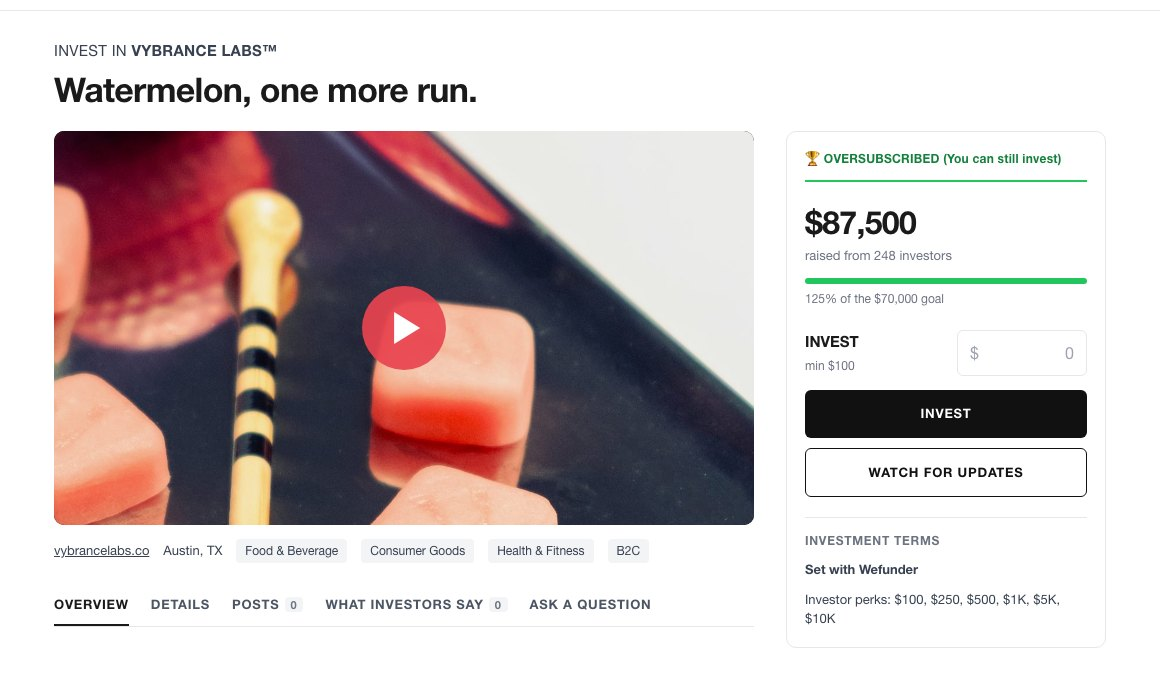
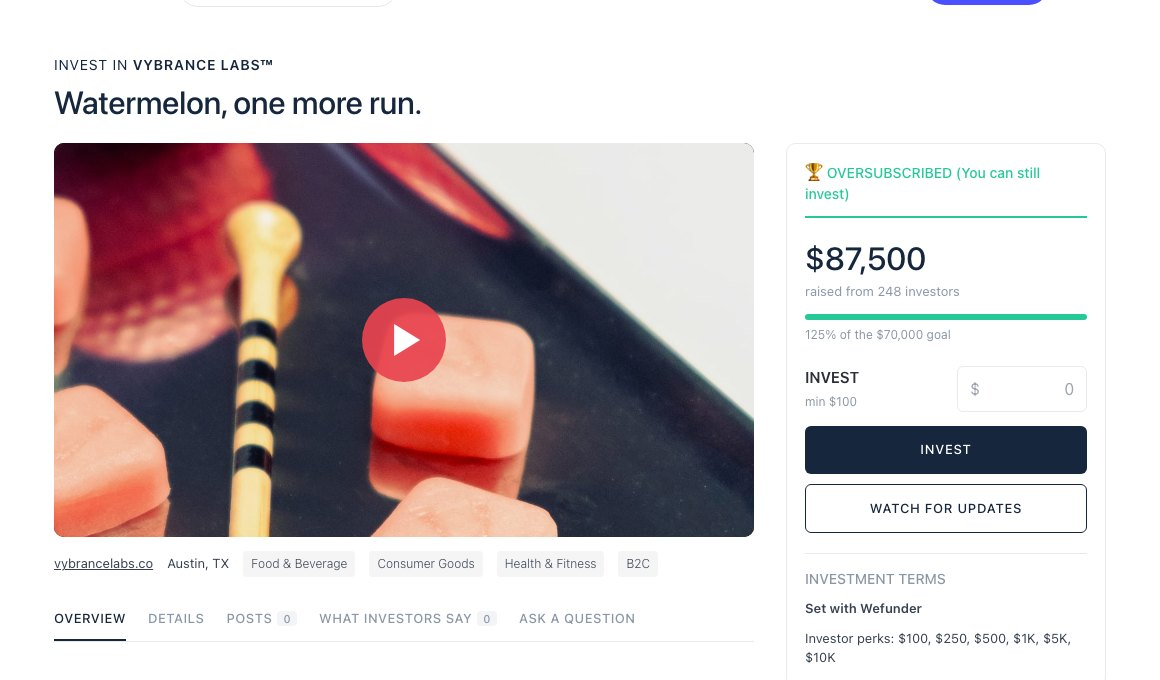
Example page: Wefunder header and palette matched

diff --git a/wefunder/example/index.html b/wefunder/example/index.html
@@ -10,48 +10,48 @@
 @font-face{font-family:"Elza";src:url("/fonts/Elza-Regular.woff2") format("woff2");font-weight:400;font-display:swap}
 @font-face{font-family:"Elza";src:url("/fonts/Elza-Medium.woff2") format("woff2");font-weight:500;font-display:swap}
 @font-face{font-family:"Elza";src:url("/fonts/Elza-Bold.woff2") format("woff2");font-weight:700;font-display:swap}
-:root{--ink:#1a1a1a;--mute:#6b7280;--hair:#e5e7eb;--wm:#e8434f;--wmd:#7d1420;--blush:#fdecec;--leaf:#1f5a33;--pur:#5b3df5}
+:root{--ink:#16263d;--mute:#8b97a7;--hair:#e8eaed;--wm:#e8434f;--wmd:#7d1420;--blush:#fdecec;--leaf:#1f5a33;--pur:#4a4fff;--green:#26c897}
 *{box-sizing:border-box;margin:0;padding:0}
-html,body{max-width:100%;overflow-x:hidden}body{font-family:-apple-system,"Helvetica Neue",Helvetica,Arial,sans-serif;color:var(--ink);background:#fff;line-height:1.5;-webkit-font-smoothing:antialiased}
+html,body{max-width:100%;overflow-x:hidden}body{font-family:"Soehne",system-ui,-apple-system,"Helvetica Neue",Helvetica,Arial,sans-serif;color:#2d2f36;background:#fff;line-height:1.5;-webkit-font-smoothing:antialiased}
 a{color:inherit;text-decoration:none}
 .note{background:#111;color:#fff;font-size:12px;text-align:center;padding:9px 16px;letter-spacing:.04em}
 .note b{font-weight:600}
-.nav{display:flex;align-items:center;gap:26px;padding:14px 32px;border-bottom:1px solid var(--hair);font-size:14px}
-.nav .logo{font-weight:700;font-size:20px;letter-spacing:-.02em;color:var(--pur)}
-.nav .logo small{font-weight:400;font-size:11px;color:var(--mute);letter-spacing:.14em;margin-left:6px}
-.nav .search{flex:0 0 200px;border:1px solid var(--hair);border-radius:999px;padding:7px 14px;color:var(--mute);font-size:13px}
+.nav{display:flex;align-items:center;gap:28px;height:80px;padding:0 20px;font-size:16px;color:rgba(0,0,0,.65)}
+.nav .logo{display:flex;align-items:center;gap:8px}.nav .logo svg{display:block}
+.nav .logo small{font-weight:400;font-size:12px;color:rgba(0,0,0,.45);letter-spacing:1.2px}.nav .logo small i{font-style:normal;font-size:10px}
+.nav .search{flex:0 0 220px;border:1px solid #e5e7eb;border-radius:999px;padding:9px 16px;color:#8b97a7;font-size:14px}
 .nav .sp{flex:1}
-.nav .raise{background:var(--pur);color:#fff;border-radius:999px;padding:8px 18px;font-weight:500;font-size:13px}
+.nav .raise{background:var(--pur);color:#fff;border-radius:9999px;padding:9px 18px;font-weight:500;font-size:14px;line-height:20px}
 .wrap{max-width:1100px;margin:0 auto;padding:28px 24px 80px}
-.kicker{font-size:15px;color:#374151;letter-spacing:.02em}
+.kicker{font-size:14px;color:#16263d;letter-spacing:.06em}
 .kicker b{font-weight:600;text-transform:uppercase}
-h1{font-size:34px;font-weight:600;letter-spacing:-.02em;line-height:1.15;margin:8px 0 22px}
+h1{font-size:32px;font-weight:500;letter-spacing:-.01em;line-height:1.2;margin:8px 0 22px;color:#16263d}
 .cols{display:grid;grid-template-columns:minmax(0,1fr) 320px;gap:32px;align-items:start}.cols>*{min-width:0}
 .film{position:relative;padding-top:56.25%;background:#000;border-radius:10px;overflow:hidden}
 .film iframe{position:absolute;inset:0;width:100%;height:100%;border:0}
 .meta{display:flex;flex-wrap:wrap;gap:8px 14px;align-items:center;margin:14px 0 22px;font-size:13px;color:#374151}
 .meta u{text-decoration:underline}
-.pill{background:#f3f4f6;border-radius:4px;padding:3px 9px;font-size:12px;color:#374151}
-.tabs{display:flex;gap:22px;overflow-x:auto;white-space:nowrap;border-bottom:1px solid var(--hair);font-size:13px;font-weight:600;letter-spacing:.06em;text-transform:uppercase;color:#4b5563}
+.pill{background:#f5f5f5;border-radius:4px;padding:4px 8px;font-size:12px;color:#475260;font-weight:300}
+.tabs{display:flex;gap:22px;overflow-x:auto;white-space:nowrap;border-bottom:1px solid var(--hair);font-size:13px;font-weight:500;letter-spacing:.04em;text-transform:uppercase;color:#8b97a7}
 .tabs span{padding:10px 0}
 .tabs .on{color:var(--ink);border-bottom:2px solid var(--ink)}
 .tabs i{font-style:normal;background:#f3f4f6;border-radius:4px;padding:1px 6px;margin-left:5px;font-size:11px;color:var(--mute)}
 .side{border:1px solid var(--hair);border-radius:10px;padding:18px;position:sticky;top:16px}
-.side .goal{font-size:12px;color:#15803d;font-weight:600;padding-bottom:12px;border-bottom:2px solid #22c55e;letter-spacing:.02em}
-.side .amt{font-size:32px;font-weight:600;margin-top:16px;letter-spacing:-.02em}.bar{height:6px;background:#e5e7eb;border-radius:3px;margin-top:12px;overflow:hidden}.bar i{display:block;height:100%;width:100%;background:#22c55e}.side .goalt{font-size:12px;color:var(--mute);margin-top:6px}.ladder{border:1px solid var(--hair);border-radius:10px;overflow:hidden}.ladder div{display:grid;grid-template-columns:90px 1fr;gap:14px;padding:14px 18px;border-top:1px solid var(--hair);font-size:14px}.ladder div:first-child{border-top:0}.ladder b{font-weight:600}
+.side .goal{font-size:14px;color:var(--green);font-weight:500;padding-bottom:12px;border-bottom:2px solid var(--green)}
+.side .amt{font-size:32px;font-weight:500;margin-top:16px;letter-spacing:-.01em;color:#16263d}.bar{height:6px;background:#e5e7eb;border-radius:3px;margin-top:12px;overflow:hidden}.bar i{display:block;height:100%;width:100%;background:var(--green)}.side .goalt{font-size:12px;color:var(--mute);margin-top:6px}.ladder{border:1px solid var(--hair);border-radius:10px;overflow:hidden}.ladder div{display:grid;grid-template-columns:90px 1fr;gap:14px;padding:14px 18px;border-top:1px solid var(--hair);font-size:14px}.ladder div:first-child{border-top:0}.ladder b{font-weight:600}
 .side .sub{font-size:13px;color:var(--mute)}
 .side .inv{display:flex;justify-content:space-between;align-items:center;margin-top:22px;gap:12px}
 .side .inv b{font-size:15px;font-weight:600;display:block}.side .inv small{color:var(--mute);font-size:12px}
 .side .box{flex:0 0 130px;border:1px solid var(--hair);border-radius:6px;padding:10px 12px;display:flex;justify-content:space-between;color:#9ca3af;font-size:16px}
-.side .btn{display:block;text-align:center;background:#111;color:#fff;font-weight:600;font-size:13px;letter-spacing:.06em;padding:14px;border-radius:6px;margin-top:14px}
-.side .btn.o{background:#fff;color:#111;border:1px solid #111;margin-top:10px}
-.side .terms{border-top:1px solid var(--hair);margin-top:20px;padding-top:14px;font-size:12px;color:var(--mute);letter-spacing:.06em;text-transform:uppercase;font-weight:600}
+.side .btn{display:block;text-align:center;background:#16263d;color:#fff;font-weight:500;font-size:13px;letter-spacing:.06em;padding:14px;border-radius:6px;margin-top:14px}
+.side .btn.o{background:#fff;color:#16263d;border:1px solid #16263d;margin-top:10px}
+.side .terms{border-top:1px solid var(--hair);margin-top:20px;padding-top:14px;font-size:14px;color:#8b97a7;letter-spacing:0;text-transform:uppercase;font-weight:500}
 .side .t{font-size:13px;margin-top:10px;color:#374151}
 .side .t b{font-weight:600}
-h2{font-size:26px;font-weight:600;letter-spacing:-.02em;margin:44px 0 18px}
+h2{font-size:24px;font-weight:500;letter-spacing:0;margin:44px 0 18px;color:#16263d}
 .hl{list-style:none}
 .hl li{display:grid;grid-template-columns:34px 1fr;gap:14px;align-items:start;margin:0 0 20px;font-size:16px;line-height:1.45}
-.hl li span:first-child{width:32px;height:32px;border:1px solid #111;border-radius:50%;display:flex;align-items:center;justify-content:center;font-size:13px}
+.hl li span:first-child{width:32px;height:32px;border:1px solid #16263d;border-radius:50%;display:flex;align-items:center;justify-content:center;font-size:13px}
 .badge{display:inline-block;background:#e9e3ff;border-radius:8px;padding:14px 16px;max-width:190px;margin-bottom:24px;font-size:12px;line-height:1.4}
 .badge b{display:block;font-size:15px;font-weight:600;margin-bottom:4px}
 .card{border:1px solid var(--hair);border-radius:10px;padding:20px;font-size:14px;line-height:1.55;color:#374151}
@@ -89,7 +89,7 @@ h2{font-size:26px;font-weight:600;letter-spacing:-.02em;margin:44px 0 18px}
 #err{color:var(--wmd);min-height:18px}
 body.locked{overflow:hidden}body.locked .site{display:none}
 body:not(.locked) #gate{display:none}
-@media(max-width:1000px){.cols{grid-template-columns:1fr}.side{position:static}.nav .search,.nav .lnk{display:none}h1{font-size:26px}.deck{grid-template-columns:1fr}}
+@media(max-width:1000px){.cols{grid-template-columns:1fr}.side{position:static}.nav .search,.nav .lnk,.nav .raise{display:none}h1{font-size:26px}.deck{grid-template-columns:1fr}}
 
 .cover{position:relative;border-radius:6px;overflow:hidden;aspect-ratio:16/9;background:#000}
 .cover img{width:100%;height:100%;object-fit:cover;display:block;opacity:.92}
@@ -118,7 +118,7 @@ body:not(.locked) #gate{display:none}
 
 <div class="site">
 <div class="note"><b>Sample page by VYB LABS.</b> Concept work for Vybrance Labs™. Not a live offering, not an offer to invest. Raise figures, investor counts and the run cost are illustrative estimates.</div>
-<div class="nav"><span class="logo">wefunder<small>INVEST</small></span><span class="search">Search</span><span class="lnk">Explore</span><span class="lnk">Vault</span><span class="lnk">Learn</span><span class="sp"></span><span class="raise">Raise Capital</span><span class="lnk">Log in or Sign Up</span></div>
+<div class="nav"><span class="logo"><svg class="wflogo" width="120" height="33" viewBox="0 0 165 45" fill="none" xmlns="http://www.w3.org/2000/svg" aria-label="Wefunder"><path d="M44.0386 38.5332H56.7241V35.3848H47.5317V31.6849H55.5291V28.5365H47.5317V24.9515H56.6092V21.8031H44.0386V38.5332ZM60.242 38.5332H63.7581V31.9836H71.8474V28.7663H63.7581V25.0204H72.9045V21.8031H60.242V38.5332ZM83.049 38.786C87.5302 38.786 90.3569 36.3041 90.3569 31.2482V21.8031H86.8408V31.4091C86.8408 34.1438 85.416 35.5457 83.0949 35.5457C80.7738 35.5457 79.372 34.0749 79.372 31.2712V21.8031H75.8329V31.3861C75.8329 36.2811 78.5906 38.786 83.049 38.786ZM94.3543 38.5332H97.8245V27.6402L106.144 38.5332H109.154V21.8031H105.661V32.3513L97.5946 21.8031H94.3543V38.5332ZM113.43 38.5332H119.888C125.151 38.5332 128.782 34.8792 128.782 30.1681V30.1222C128.782 25.4111 125.151 21.8031 119.888 21.8031H113.43V38.5332ZM119.888 24.9974C122.99 24.9974 125.082 27.1346 125.082 30.1681V30.2141C125.082 33.2476 122.99 35.3388 119.888 35.3388H116.946V24.9974H119.888ZM132.304 38.5332H144.99V35.3848H135.797V31.6849H143.795V28.5365H135.797V24.9515H144.875V21.8031H132.304V38.5332ZM152.024 29.9613V24.9974H155.816C157.677 24.9974 158.826 25.8477 158.826 27.4564V27.5023C158.826 28.9731 157.723 29.9613 155.885 29.9613H152.024ZM148.508 38.5332H152.024V33.0867H155.08L158.78 38.5332H162.917L158.734 32.4892C160.894 31.7308 162.388 30.0302 162.388 27.3185V27.2725C162.388 25.7328 161.906 24.4229 160.986 23.5037C159.883 22.4006 158.229 21.8031 156.114 21.8031H148.508V38.5332Z" fill="#4a4fff"></path><path d="M3 29.4853L6.36524 22.194C6.60628 21.6717 7.35366 21.6867 7.57359 22.2182L14.3487 38.5913C14.5779 39.1453 15.3677 39.1308 15.5764 38.5687L23.1127 18.279C23.315 17.7341 24.0721 17.6984 24.3249 18.2217L32.5064 35.1596C32.7713 35.7081 33.5744 35.6351 33.7362 35.048L43.1168 1" stroke="#4a4fff" stroke-width="4.86264"></path></svg><small>INVEST <i>&#8964;</i></small></span><span class="search">&#9906; Search</span><span class="lnk">Explore</span><span class="lnk">Vault</span><span class="lnk">Learn &#8964;</span><span class="sp"></span><span class="raise">Raise Capital</span><span class="lnk">Log in or Sign Up</span></div>
 
 <div class="wrap">
   <div class="kicker">INVEST IN <b>Vybrance Labs™</b></div>
